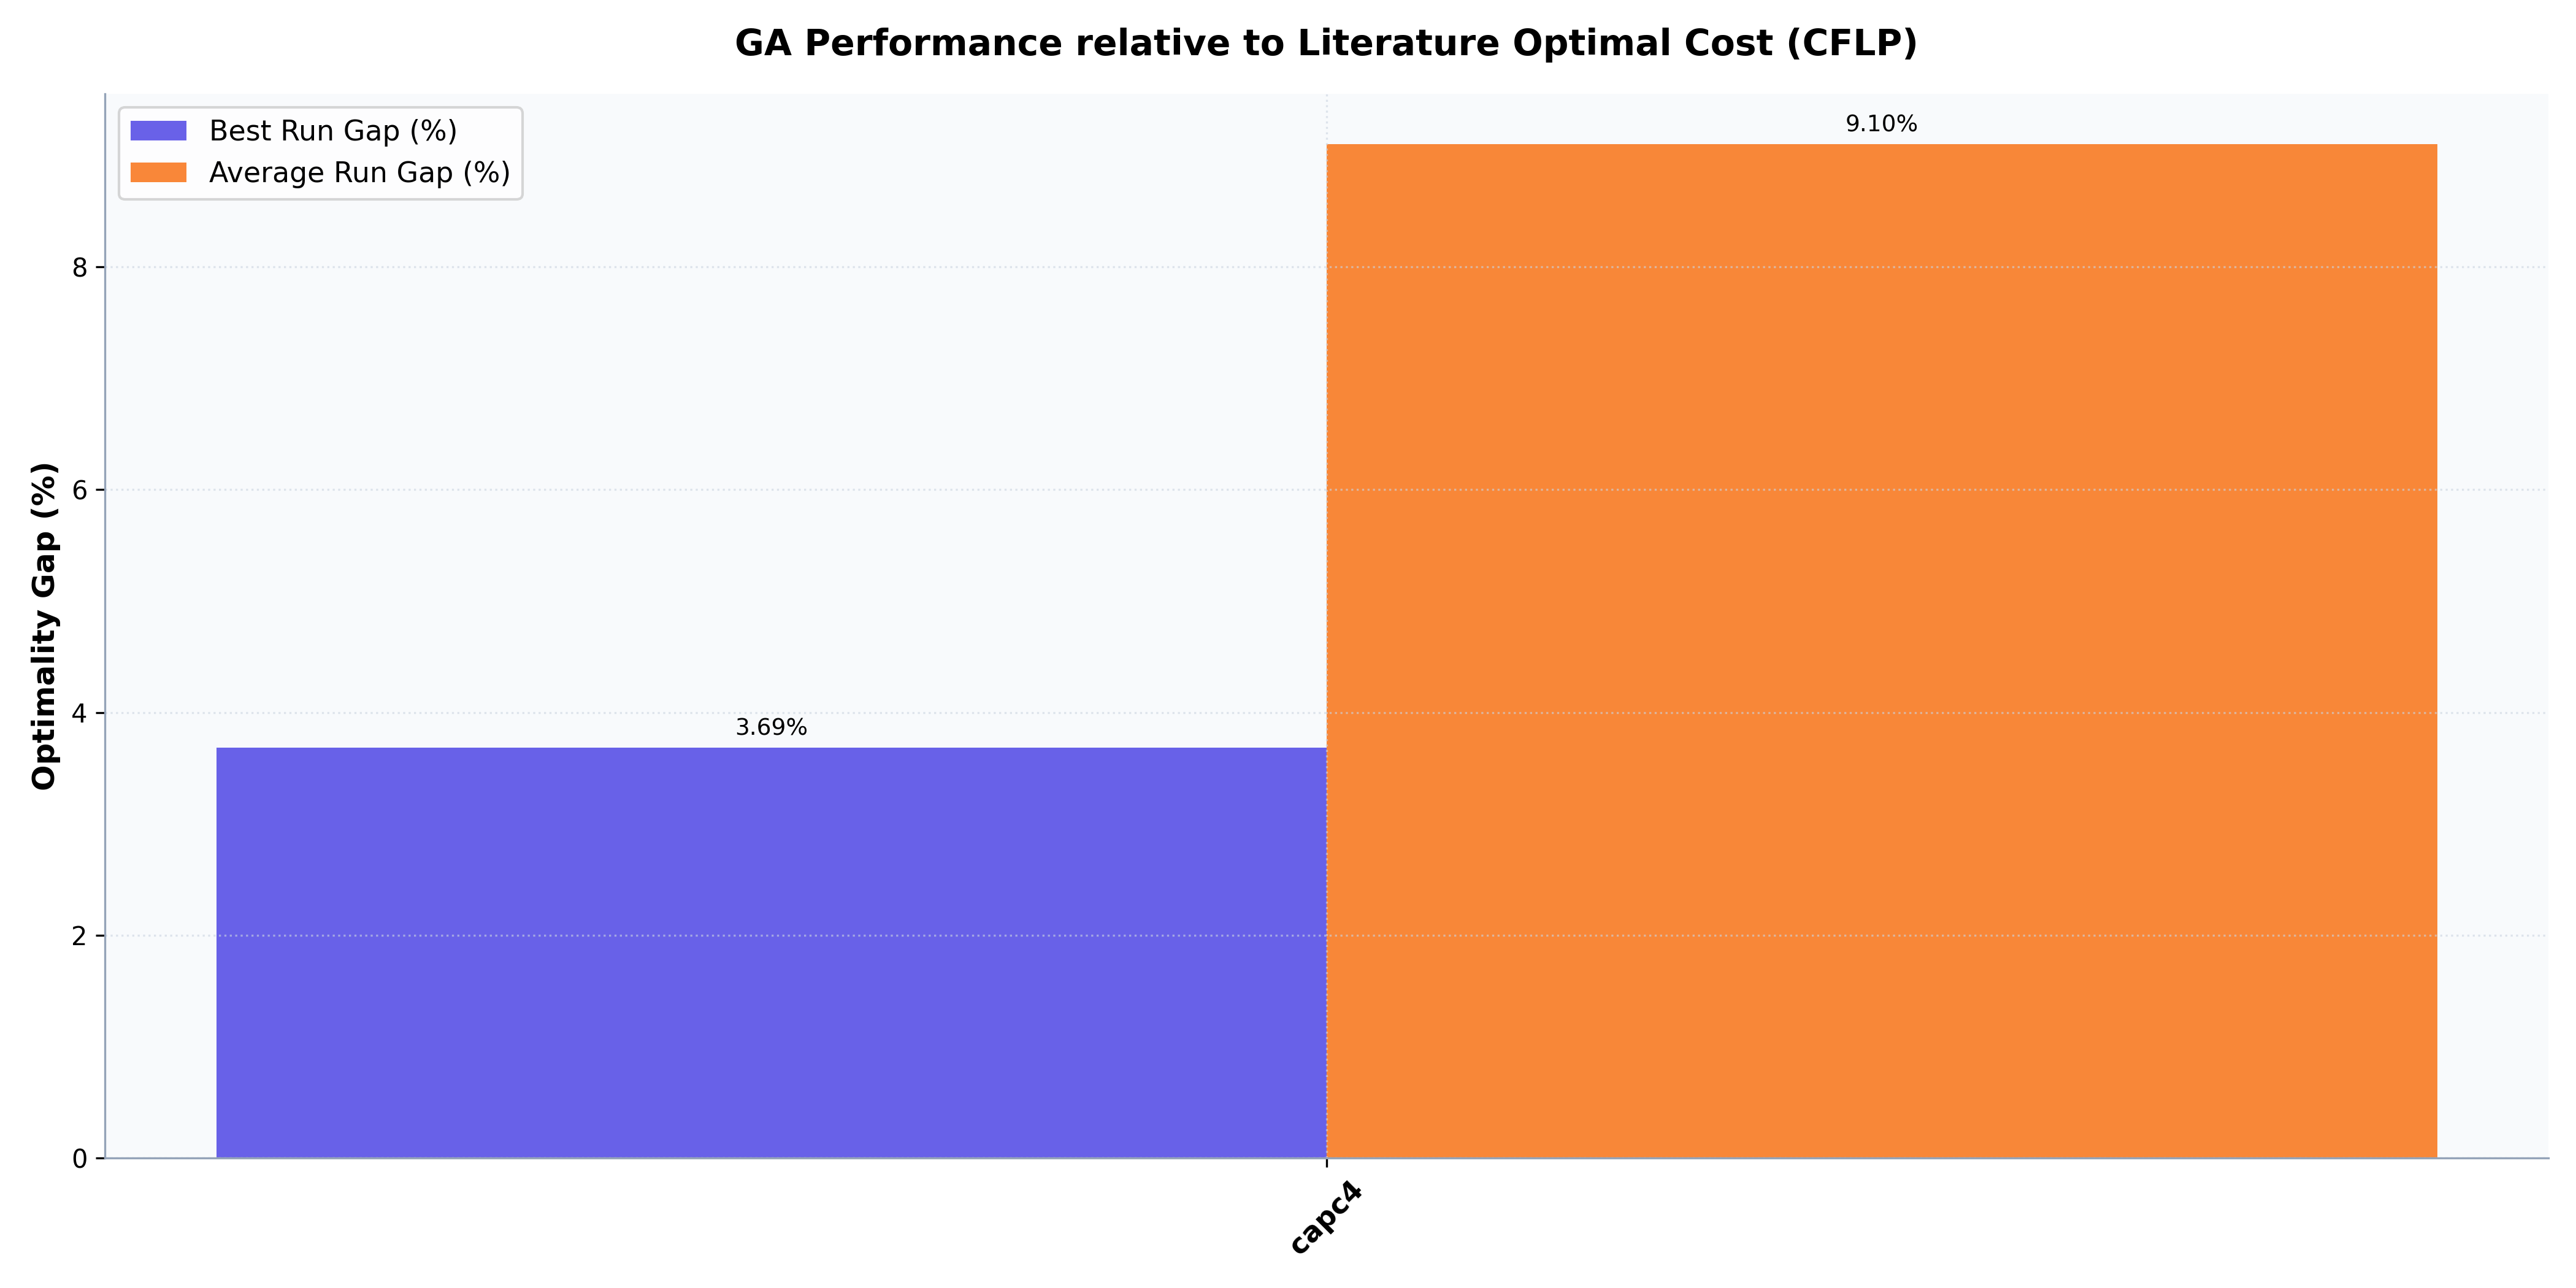
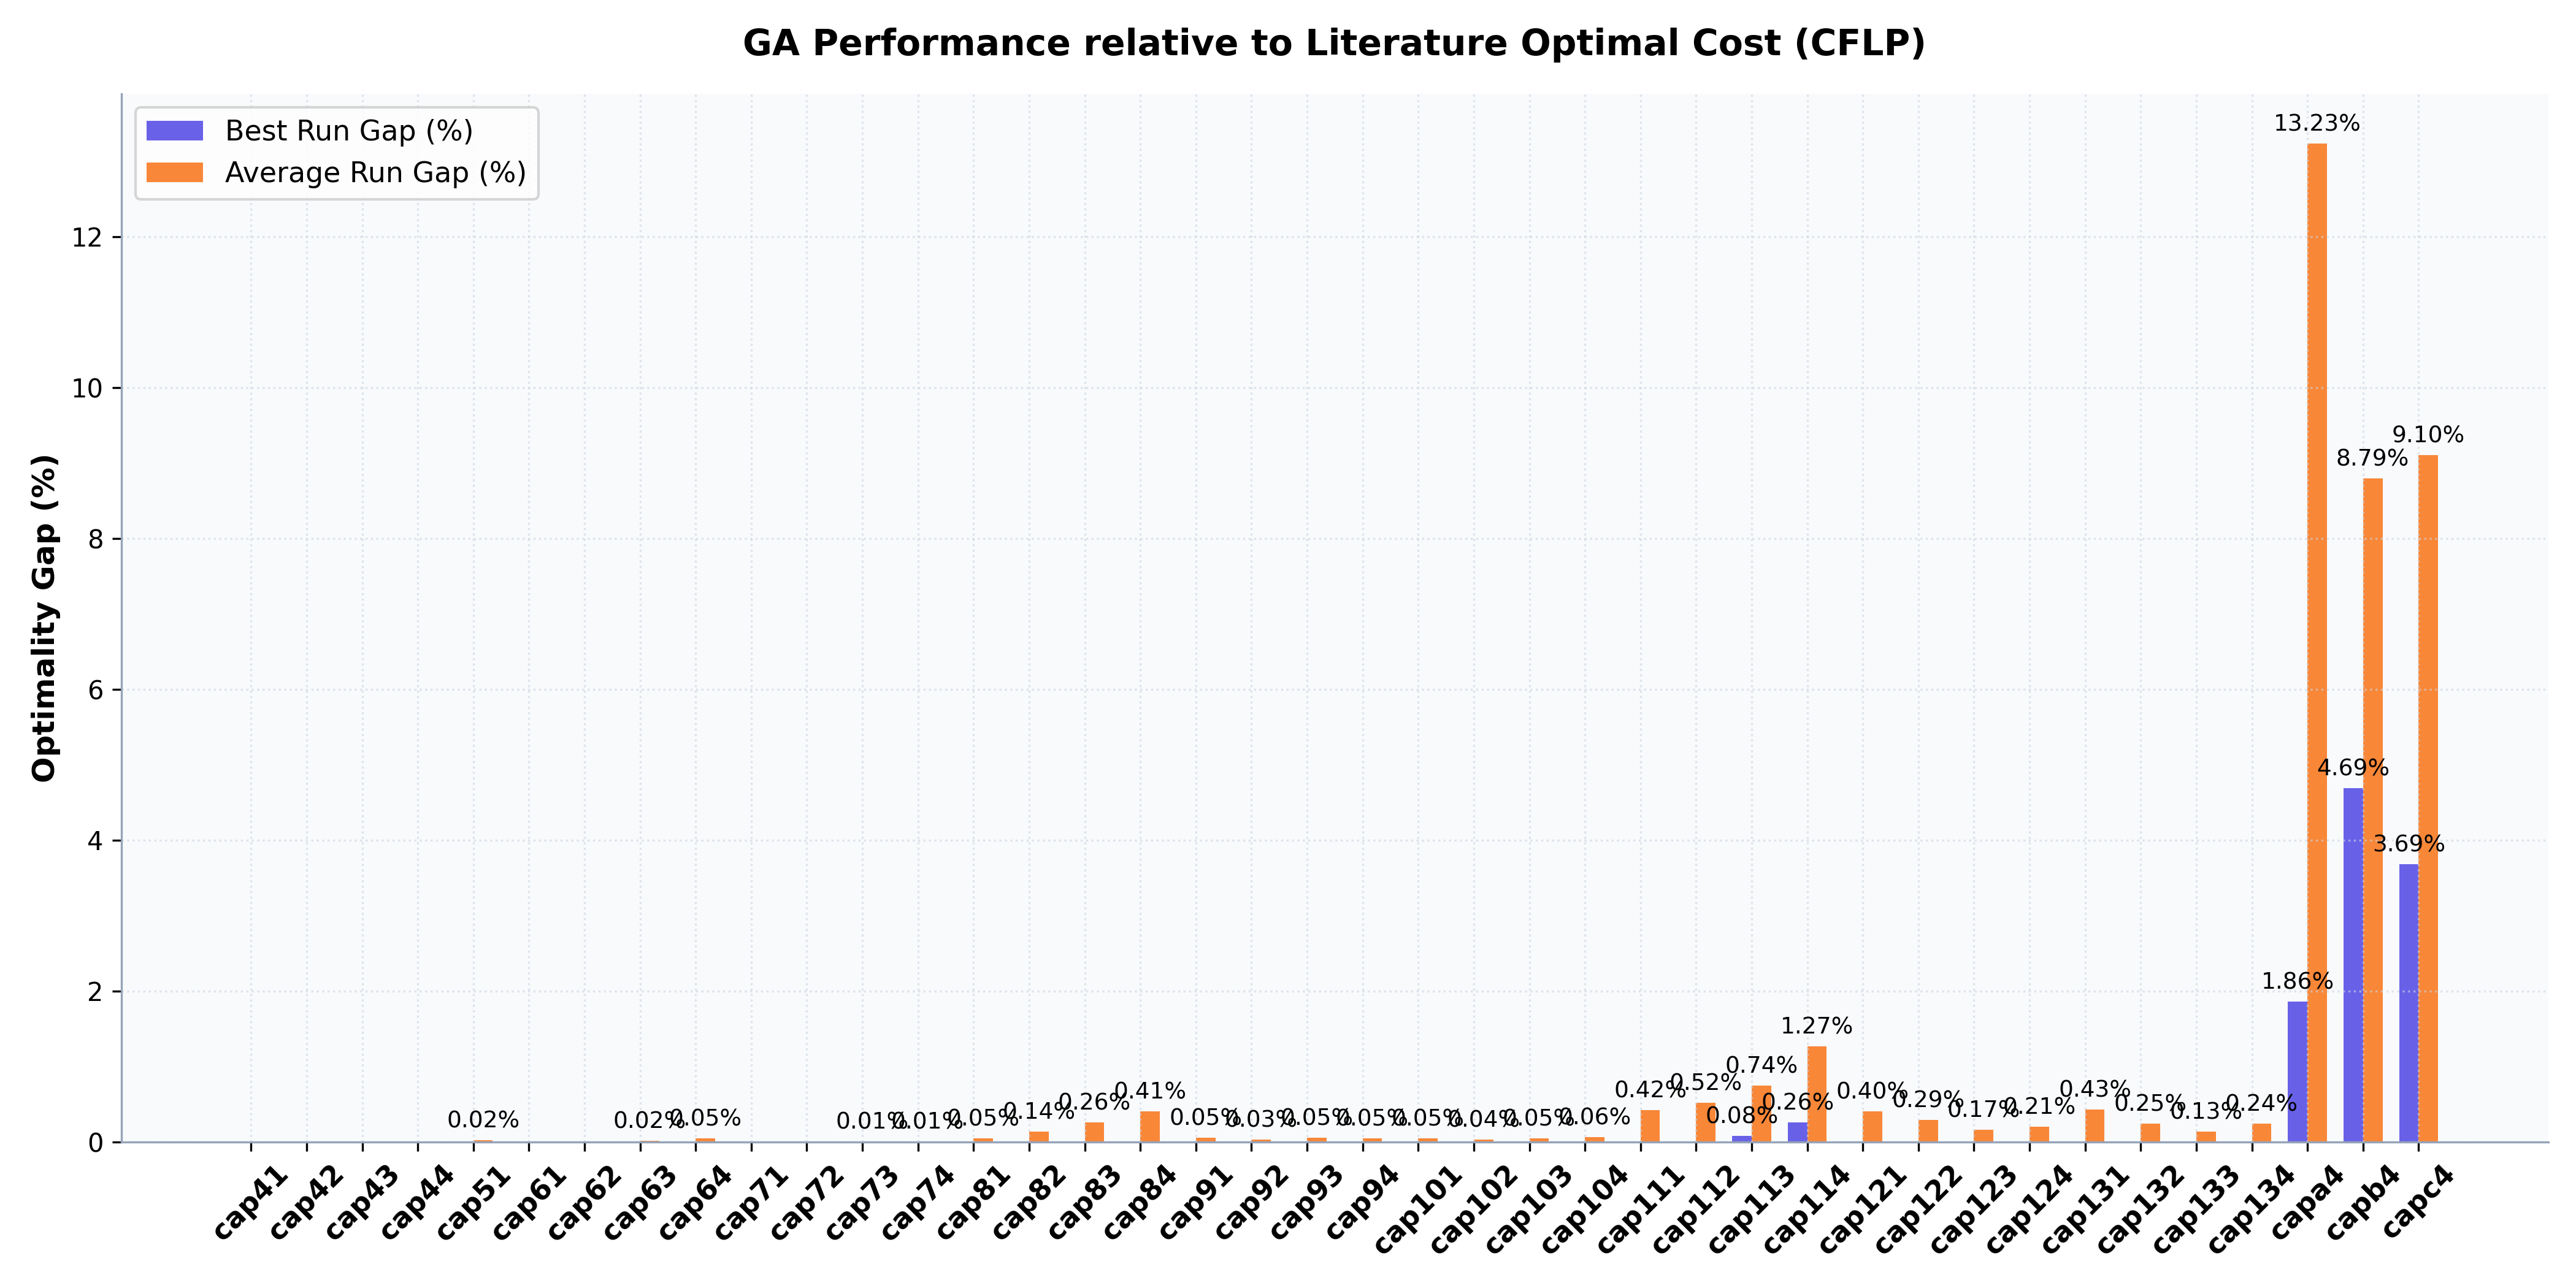
Add all 40 OR-Library instances to the Classical GA and Hybrid ML-GA benchmarks
Previously only 15 of the 40 available cap41-cap134/capa4/capb4/capc4 instances
were benchmarked. Extended both INSTANCES lists and CFLP_OPTIMAL reference
values (sourced from Beasley's published capopt.txt, cross-checked against
the values already on record for the original 15) to cover the remaining 25
instances, and re-ran both benchmarks end-to-end.

diff --git a/src/benchmark_statistical.py b/src/benchmark_statistical.py
@@ -7,11 +7,13 @@ Runs the CFLP Genetic Algorithm N_RUNS times per instance and reports real stati
 All results are computed from actual GA solver runs. The only fixed values are
 the published OR-Library optimal costs, used solely as the reference "Optimal" column.
 
-Instances covered (Table 2 layout):
-  cap71, cap72, cap73, cap74          (16 facilities, 50 customers)
-  cap101, cap102, cap103, cap104      (25 facilities, 100 customers)
-  cap131, cap132, cap133, cap134      (50 facilities, 150 customers)
-  capa, capb, capc                    (100 facilities, 1000 customers)
+Instances covered (all 37 small/medium OR-Library capacitated warehouse location
+instances from Beasley 1988 Table 1, problem sets IV-XIII, plus the largest-capacity
+variant from each of the A/B/C families):
+  cap41-cap44, cap51, cap61-cap64, cap71-cap74   (16 facilities, 50 customers)
+  cap81-cap84, cap91-cap94, cap101-cap104        (25 facilities, 50 customers)
+  cap111-cap114, cap121-cap124, cap131-cap134    (50 facilities, 50 customers)
+  capa4, capb4, capc4                            (100 facilities, 1000 customers)
 
 Usage:
     .venv\\Scripts\\python src\\benchmark_statistical.py
@@ -67,23 +69,58 @@ LARGE_MUT = 0.2
 # from each family (produced by preprocess_orlib.py, per Beasley 1988 Table 1), which is
 # what the CFLP_OPTIMAL reference values below actually correspond to.
 INSTANCES = [
+    "cap41", "cap42", "cap43", "cap44",
+    "cap51",
+    "cap61", "cap62", "cap63", "cap64",
     "cap71", "cap72", "cap73", "cap74",
+    "cap81", "cap82", "cap83", "cap84",
+    "cap91", "cap92", "cap93", "cap94",
     "cap101", "cap102", "cap103", "cap104",
+    "cap111", "cap112", "cap113", "cap114",
+    "cap121", "cap122", "cap123", "cap124",
     "cap131", "cap132", "cap133", "cap134",
     "capa4", "capb4", "capc4"
 ]
 
-# Literature Optimal Values for comparison (capa4/capb4/capc4: Beasley 1988 Table 1,
-# same source as benchmark_large.py's ground_truths dict)
+# Literature Optimal Values for comparison. cap41-cap134: Beasley's OR-Library
+# capopt.txt (https://people.brunel.ac.uk/~mastjjb/jeb/orlib/files/capopt.txt),
+# fetched and cross-checked directly against the values already on record here
+# for cap71-74/cap101-104/cap131-134 (exact match). capa4/capb4/capc4: Beasley
+# 1988 Table 1, same source as benchmark_large.py's ground_truths dict.
 CFLP_OPTIMAL: Dict[str, float] = {
+    "cap41": 1040444.375,
+    "cap42": 1098000.450,
+    "cap43": 1153000.450,
+    "cap44": 1235500.450,
+    "cap51": 1025208.225,
+    "cap61": 932615.750,
+    "cap62": 977799.400,
+    "cap63": 1014062.050,
+    "cap64": 1045650.250,
     "cap71": 932615.750,
     "cap72": 977799.400,
     "cap73": 1010641.450,
     "cap74": 1034976.975,
+    "cap81": 838499.288,
+    "cap82": 910889.563,
+    "cap83": 975889.563,
+    "cap84": 1069369.525,
+    "cap91": 796648.438,
+    "cap92": 855733.500,
+    "cap93": 896617.538,
+    "cap94": 946051.325,
     "cap101": 796648.437,
     "cap102": 854704.200,
     "cap103": 893782.112,
     "cap104": 928941.750,
+    "cap111": 826124.713,
+    "cap112": 901377.213,
+    "cap113": 970567.750,
+    "cap114": 1063356.488,
+    "cap121": 793439.563,
+    "cap122": 852524.625,
+    "cap123": 895302.325,
+    "cap124": 946051.325,
     "cap131": 793439.562,
     "cap132": 851495.325,
     "cap133": 893076.712,

diff --git a/src/benchmark_hybrid_ga.py b/src/benchmark_hybrid_ga.py
@@ -3,7 +3,7 @@ benchmark_hybrid_ga.py
 =======================
 Phase 4: Re-benchmark. Evaluates the CORRECTED Hybrid ML-GA framework
 (bootstrap-mode GA-derived training data -> trained surrogate -> confidence_aware
-GA using the predicted-cost-vs-current-best decision logic) on the same 15
+GA using the predicted-cost-vs-current-best decision logic) on the same 40
 OR-Library CFLP instances and reference optimals used by benchmark_statistical.py,
 so results are directly comparable to the Classical GA baseline already on record
 in docs/statistical_benchmark_results.csv.
@@ -67,21 +67,56 @@ WARMUP_FRACTION = 0.15
 # (produced by preprocess_orlib.py, per Beasley 1988 Table 1), matching the reference
 # optimal values below and benchmark_large.py's ground_truths dict.
 INSTANCES = [
+    "cap41", "cap42", "cap43", "cap44",
+    "cap51",
+    "cap61", "cap62", "cap63", "cap64",
     "cap71", "cap72", "cap73", "cap74",
+    "cap81", "cap82", "cap83", "cap84",
+    "cap91", "cap92", "cap93", "cap94",
     "cap101", "cap102", "cap103", "cap104",
+    "cap111", "cap112", "cap113", "cap114",
+    "cap121", "cap122", "cap123", "cap124",
     "cap131", "cap132", "cap133", "cap134",
     "capa4", "capb4", "capc4",
 ]
 
+# cap41-cap134: Beasley's OR-Library capopt.txt (verified against the values
+# already on record for cap71-74/cap101-104/cap131-134). capa4/capb4/capc4:
+# Beasley 1988 Table 1, same source as benchmark_large.py's ground_truths dict.
 CFLP_OPTIMAL: Dict[str, float] = {
+    "cap41": 1040444.375,
+    "cap42": 1098000.450,
+    "cap43": 1153000.450,
+    "cap44": 1235500.450,
+    "cap51": 1025208.225,
+    "cap61": 932615.750,
+    "cap62": 977799.400,
+    "cap63": 1014062.050,
+    "cap64": 1045650.250,
     "cap71": 932615.750,
     "cap72": 977799.400,
     "cap73": 1010641.450,
     "cap74": 1034976.975,
+    "cap81": 838499.288,
+    "cap82": 910889.563,
+    "cap83": 975889.563,
+    "cap84": 1069369.525,
+    "cap91": 796648.438,
+    "cap92": 855733.500,
+    "cap93": 896617.538,
+    "cap94": 946051.325,
     "cap101": 796648.437,
     "cap102": 854704.200,
     "cap103": 893782.112,
     "cap104": 928941.750,
+    "cap111": 826124.713,
+    "cap112": 901377.213,
+    "cap113": 970567.750,
+    "cap114": 1063356.488,
+    "cap121": 793439.563,
+    "cap122": 852524.625,
+    "cap123": 895302.325,
+    "cap124": 946051.325,
     "cap131": 793439.562,
     "cap132": 851495.325,
     "cap133": 893076.712,